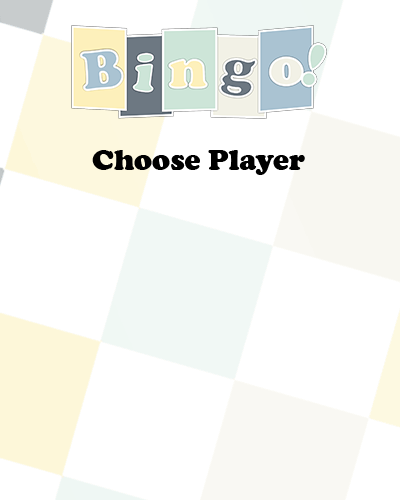
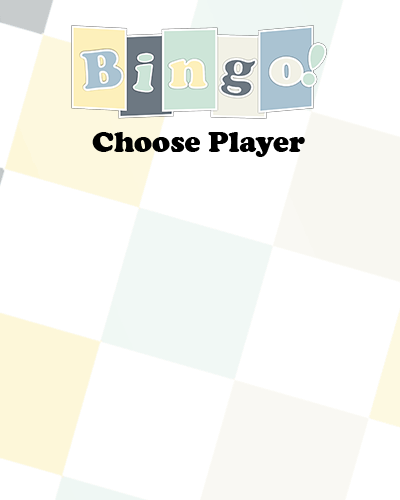
Delete Player / Close Button Implemented
You can now delete a player from the list. There is also a close button
but its just the Bingo token in the top left corner of the ChoosePlayer
and NewPlayer dialogs. Moved writing of and deleting of players to the
shutdown hook only. Still need to make sure Command + Q on a Mac
invokes the shutdown hook.

Changed region(s): [[0.21, 0.24, 0.78, 0.36]]

diff --git a/ChoosePlayer.java b/ChoosePlayer.java
@@ -16,16 +16,19 @@ public class ChoosePlayer extends JDialog {
     private final JList<String> playersList = new JList<>();
     private final DefaultListModel<String> playersListModel = new DefaultListModel<>();
     private final Font shopFont = BingoGUI.getGameFont().deriveFont(30f);
-    private final ArrayList<String> newPlayers = new ArrayList<>();
+    static final ArrayList<String> newPlayers = new ArrayList<>();
+    static final ArrayList<String> deletedPlayers = new ArrayList<>();
     private final Human player;
     
     public ChoosePlayer(Human p) {
 	this.player = p;
 	
 	configureBackground();
-        configureStoreButton();
+        configureStartButton();
 	configurePlayersList();
 	configureNewPlayerButton();
+	configureDeletePlayerButton();
+	configureQuitButton();
 	
 	this.add(backgroundJL);
 	this.setSize(400, 500);
@@ -42,12 +45,12 @@ public class ChoosePlayer extends JDialog {
         backgroundJL.setLocation(0, 0);
     }
 
-    private void configureStoreButton() {
+    private void configureStartButton() {
 	final JButton startButton = new JButton(new ImageIcon(getClass().getResource("/img/ChoosePlayer/startButton.png")));
 	startButton.setContentAreaFilled(false);
 	startButton.setBorder(null);
-        startButton.setSize(200, 100);
-        startButton.setLocation(100, 380);
+        startButton.setSize(200, 70);
+        startButton.setLocation(100, 425);
         startButton.addMouseListener(new MouseAdapter() {
             @Override
 	    /*Retrieve the value from the list and set static player's name.*/
@@ -72,7 +75,7 @@ public class ChoosePlayer extends JDialog {
 	
 	playersScrollPane.setViewportView(playersList);
 	playersScrollPane.setSize(220, 180);
-	playersScrollPane.setLocation(90, 190);
+	playersScrollPane.setLocation(90, 175);
 	
 	playersList.setModel(playersListModel);
 	playersList.setFont(shopFont);
@@ -82,21 +85,51 @@ public class ChoosePlayer extends JDialog {
     }
 
     private void configureNewPlayerButton() {
-	final JButton newPlayerButton = new JButton(new ImageIcon(getClass().getResource("/img/ChoosePlayer/newPlayerButton.png")));
+	final JButton newPlayerButton = new JButton(new ImageIcon(getClass().getResource("/img/ChoosePlayer/addButton.png")));
 	newPlayerButton.setContentAreaFilled(false);
 	newPlayerButton.setBorder(null);
-        newPlayerButton.setSize(40, 36);
-        newPlayerButton.setLocation(5, 6);
+        newPlayerButton.setSize(150, 75);
+        newPlayerButton.setLocation(45, 355);
         newPlayerButton.addMouseListener(new MouseAdapter() {
             @Override
             public void mouseReleased(MouseEvent e) {
 		NewPlayer newPlayerDialog = new NewPlayer(player);
-		String newPlayer = newPlayerDialog.getNewPlayer();
+		if (newPlayerDialog.getNewPlayer() != null) {
+		    String newPlayer = newPlayerDialog.getNewPlayer();
 		playersListModel.addElement(newPlayer);
-		ChoosePlayer.this.newPlayers.add(newPlayer);
+		playersList.setSelectedIndex(playersListModel.size() - 1);
+		newPlayers.add(newPlayer);
+		}
             }
         });
         backgroundJL.add(newPlayerButton);
+    }
+    
+    private void configureDeletePlayerButton() {
+	final JButton deletePlayerButton = new JButton(new ImageIcon(getClass().getResource("/img/ChoosePlayer/deleteButton.png")));
+	deletePlayerButton.setContentAreaFilled(false);
+	deletePlayerButton.setBorder(null);
+        deletePlayerButton.setSize(150, 75);
+        deletePlayerButton.setLocation(205, 355);
+        deletePlayerButton.addMouseListener(new MouseAdapter() {
+            @Override
+            public void mouseReleased(MouseEvent e) {
+		/*Save the name of the player to delete.*/
+		String playerToDelete = playersList.getSelectedValue();
+		/*Remove that player from the visual list.*/
+		playersListModel.removeElement(playerToDelete);
+		/*If that player had not been played before, just prevent adding it to the list.*/
+		if (newPlayers.contains(playerToDelete)) {
+		    newPlayers.remove(playerToDelete);
+		}
+		/*If it is an existing player, add it to the deletedPlayers list.*/
+		else {
+		    deletedPlayers.add(playerToDelete);
+		}
+		playersList.setSelectedIndex(0);
+            }
+        });
+        backgroundJL.add(deletePlayerButton);
     }
     
     /*Iterate through Set of player names and add to listmodel.*/
@@ -111,4 +144,20 @@ public class ChoosePlayer extends JDialog {
     public ArrayList<String> getNewPlayers() {
 	return newPlayers;
     }
+
+    private void configureQuitButton() {
+	final JButton quitButton = new JButton(new ImageIcon(getClass().getResource("/img/ChoosePlayer/quitButton.png")));
+	quitButton.setContentAreaFilled(false);
+	quitButton.setBorder(null);
+        quitButton.setSize(31, 30);
+        quitButton.setLocation(6, 4);
+        quitButton.addMouseListener(new MouseAdapter() {
+            @Override
+            public void mouseReleased(MouseEvent e) {
+		System.exit(0);
+            }
+        });
+        backgroundJL.add(quitButton);
+    }
+
 }

diff --git a/NewPlayer.java b/NewPlayer.java
@@ -23,6 +23,7 @@ public class NewPlayer extends JDialog {
 	
 	configureStartButton();
 	configureTextField();
+	configureCloseButton();
 	
 	this.add(backgroundJL);
 	this.setSize(300, 400);
@@ -35,7 +36,7 @@ public class NewPlayer extends JDialog {
     }
 
     private void configureStartButton() {
-	final JButton startButton = new JButton(new ImageIcon(getClass().getResource("/img/ChoosePlayer/startButton.png")));
+	final JButton startButton = new JButton(new ImageIcon(getClass().getResource("/img/NewPlayer/addButton.png")));
 	startButton.setContentAreaFilled(false);
 	startButton.setBorder(null);
         startButton.setSize(200, 100);
@@ -43,10 +44,7 @@ public class NewPlayer extends JDialog {
         startButton.addMouseListener(new MouseAdapter() {
             @Override
             public void mouseReleased(MouseEvent e) {
-		if (textField.getText().equals("")) {
-		    ;
-		}
-		else {
+		if (!textField.getText().equals("")) {
 		    player.setName(textField.getText());
 		    /*This part seems redundant but its necessary for if you make a new player FROM the Choose Player dialog.*/
 		    newPlayer = textField.getText();
@@ -85,13 +83,28 @@ public class NewPlayer extends JDialog {
 	    }
 	}
 	
-	textField.setDocument(new JTextFieldLimit(10));
+	textField.setDocument(new JTextFieldLimit(12));
 	
 	this.add(textField);
     }
     
     public String getNewPlayer() {
 	return newPlayer;
+    }
+
+    private void configureCloseButton() {
+	final JButton closeButton = new JButton(new ImageIcon(getClass().getResource("/img/NewPlayer/closeButton.png")));
+	closeButton.setContentAreaFilled(false);
+	closeButton.setBorder(null);
+        closeButton.setSize(31, 30);
+        closeButton.setLocation(6, 4);
+        closeButton.addMouseListener(new MouseAdapter() {
+            @Override
+            public void mouseReleased(MouseEvent e) {
+		NewPlayer.this.dispose();
+            }
+        });
+        backgroundJL.add(closeButton);
     }
     
 }

diff --git a/Bingo.java b/Bingo.java
@@ -271,12 +271,26 @@ public class Bingo {
 		Properties ticketProperties = new Properties();
 		InputStream ticketInputStream = null;
 		OutputStream ticketOutputStream = null;
-		
 		/*Write the user's current balance to the associated property.*/
 		try {
 		    ticketInputStream = new FileInputStream(propertiesFile);
 		    ticketProperties.load(ticketInputStream);
 		    ticketProperties.setProperty(Shop.player.getName(), String.valueOf(Shop.player.getCurrentBalance()));
+		    /*If there are new players, write them to the file.*/
+		    if (!ChoosePlayer.newPlayers.isEmpty()) {
+			for (String newName : ChoosePlayer.newPlayers) {
+			    /*Only add the name if it isn't the player that was actually used.*/
+			    if (!newName.equals(Shop.player.getName())) {
+				ticketProperties.setProperty(newName, String.valueOf(20));
+			    }
+			}
+		    }
+		    /*If there are deleted players, remove them from the file.*/
+		    if (!ChoosePlayer.deletedPlayers.isEmpty()) {
+			for (String deletedName : ChoosePlayer.deletedPlayers) {
+			    ticketProperties.remove(deletedName);
+			}
+		    }
 		    ticketOutputStream = new FileOutputStream(propertiesFile);
 		    ticketProperties.store(ticketOutputStream, null);
 		} catch (FileNotFoundException e) {

diff --git a/Human.java b/Human.java
@@ -126,15 +126,6 @@ public class Human {
 		else {
 		    bankHistory.add(Integer.parseInt(ticketProperties.getProperty(name)));
 		}
-		/*If a few different new players were created but not used in the game, keep the names anyway.*/
-		if (!choosePlayer.getNewPlayers().isEmpty()) {
-		    ticketOutputStream = new FileOutputStream(propertiesFile);
-		    for (String newName : choosePlayer.getNewPlayers()) {
-			ticketProperties.setProperty(newName, String.valueOf(20));
-		    }
-		    ticketProperties.store(ticketOutputStream, null);
-		    ticketOutputStream.close();
-		}
 	    }
 	    /*Create a new properties file from scratch.*/
 	} catch (Exception e) {
